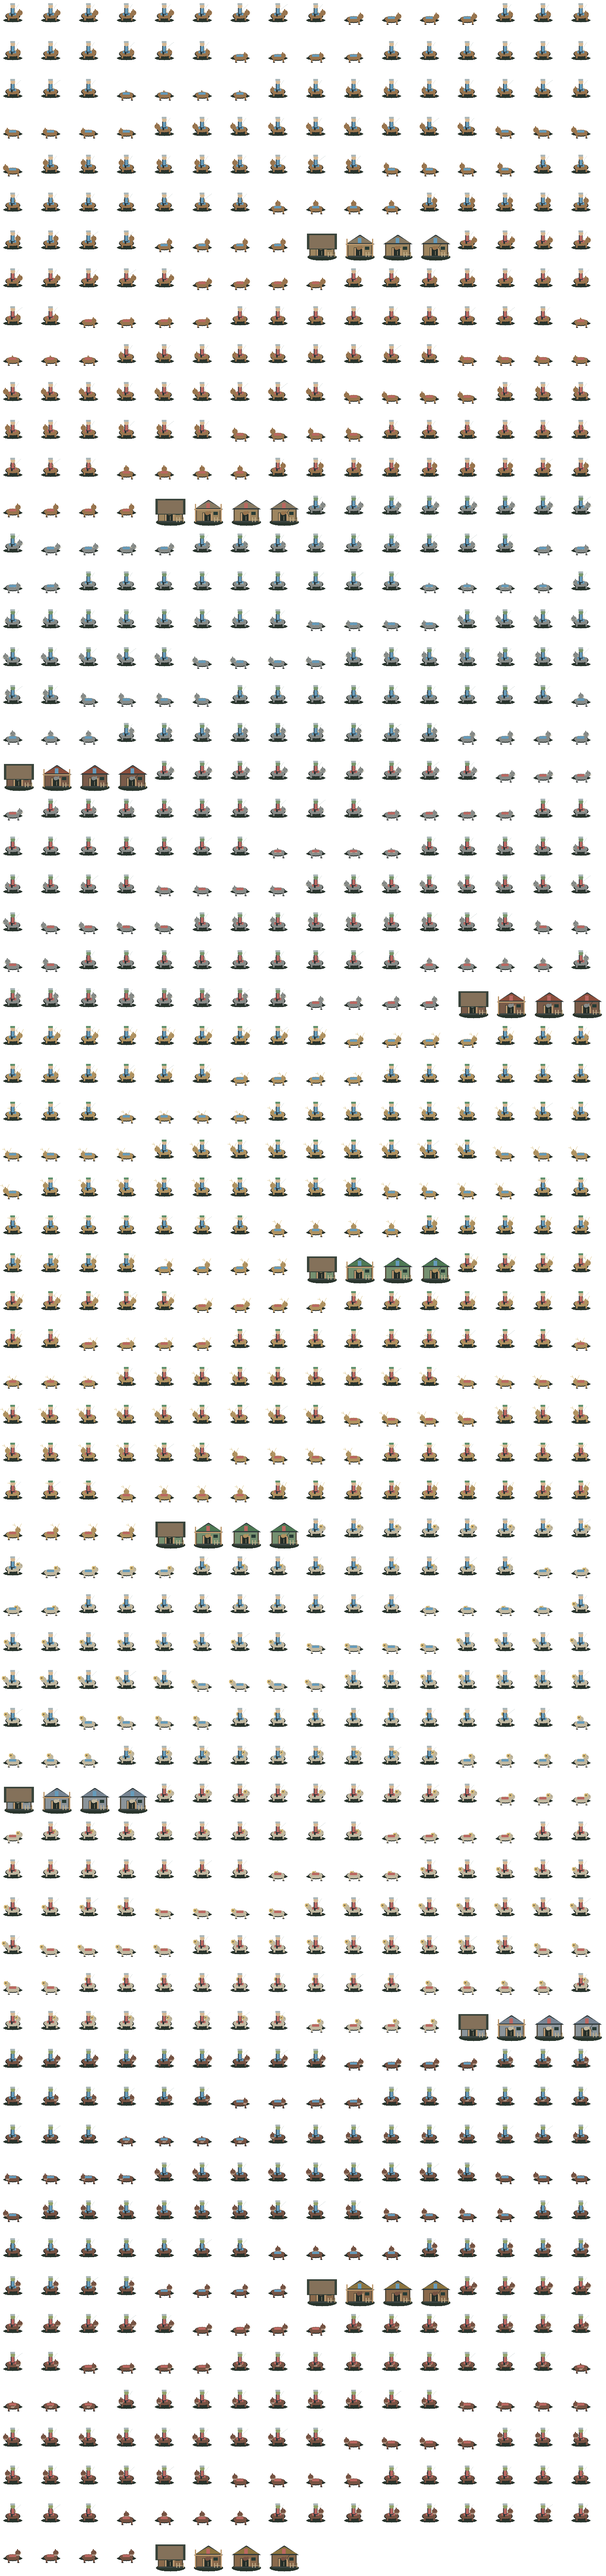
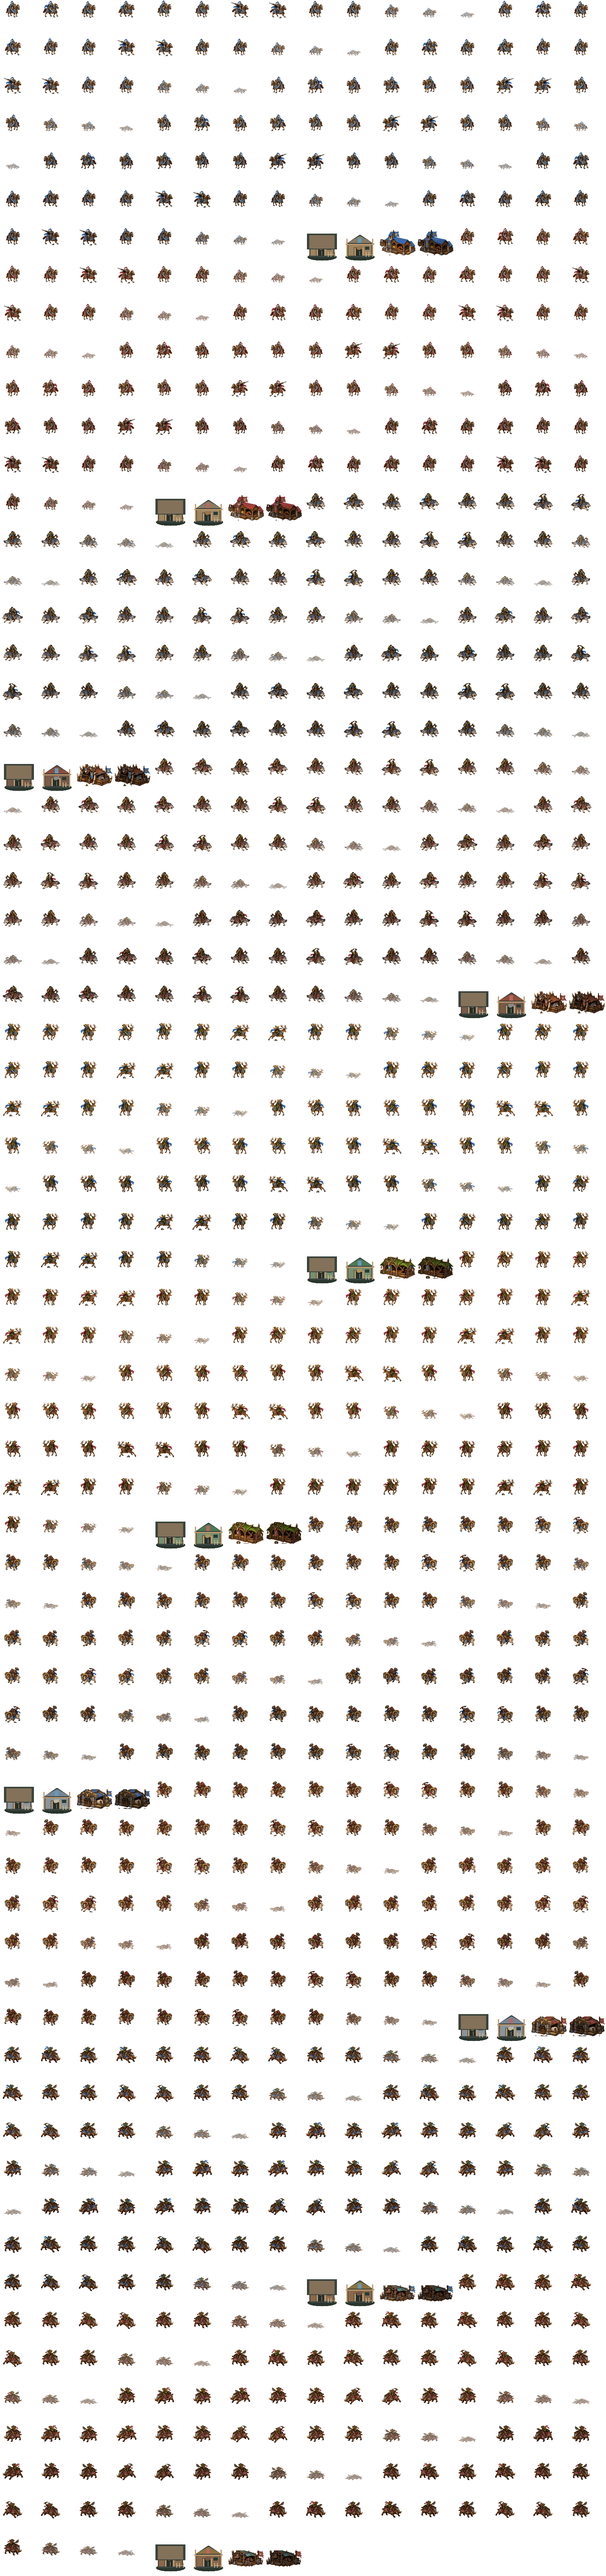
art: match mounted units and stables to painted roster

diff --git a/src/presentation/animation.ts b/src/presentation/animation.ts
@@ -24,6 +24,6 @@ export function artAtlas(type:UnitArt):'units'|'naval'|'air'|'cavalry'{return ty
 
 /** Labels sit above the detailed land silhouettes, without changing its body or origin. */
 export function unitOverlayOffsets(type:UnitArt,faction:FactionId='crown'){
- const detailed=type==='worker'||type==='soldier'||type==='archer'||type==='specialist';
+ const detailed=type==='worker'||type==='soldier'||type==='archer'||type==='specialist'||type==='cavalry';
  return {hp:type==='air'?60:detailed?48:type==='catapult'?48:29,cargo:detailed?68:48};
 }

diff --git a/assets/sources/visual-refresh/cavalry.md b/assets/sources/visual-refresh/cavalry.md
@@ -1,0 +1,34 @@
+# RTS-220 revised cavalry and Stable art
+
+Built-in imagegen, 2026-10-08, original project assets, CC0 dedication.
+Style reference: repository-owned `crown.png` (approved visual refresh).
+Masters: `cavalry.png` and `stables.png`; genuine generated alpha preserved.
+No external game sprites, paid stock, or API/CLI generation.
+
+Cavalry prompt: transparent original fantasy RTS sheet, five rows/four columns,
+elevated southeast detailed painted pixel miniatures, matching the supplied
+Human reference finish. Rows: blue/gold armored Knight on chestnut horse;
+tusked Orc axe rider on gray wolf; leaf-armored Elf sword rider on antlered
+stag; red-bearded Dwarf hammer rider on woolly curled-horn ram; goggled Goblin
+cleaver rider on bristled tusked boar. Columns idle, left-step, right-step,
+melee strike. Whole mounts, generous padding, blue team cloth, no text/grid.
+
+Stable prompt: same miniature style/camera, transparent five-row one-column
+sheet: blue-roof stone/timber horse stable; tusk/timber Wolf Den; living leaf
+Stag Sanctuary; granite/brass Ram Enclosure; patched tin/timber Boar Pen.
+Animal signs/heads, stalls, harnesses, small blue team banners; no terrain.
+
+Export uses existing connected-component cropping/alpha-area reduction and
+cloth recoloring from `frames.mjs`, explicit reviewed row boundaries, unchanged
+64px unit/96px building cells and logical bodies. Runtime atlas includes genuine
+walking/attack poses; western facing mirrors, northern facing shades. Death
+collapses/fades, not separately painted death or eight independent perspectives.
+Foundation/building stages retain original editable procedural art; completed/
+damaged Stable uses painted art plus damage cracks. Portraits/actions use the
+same atlas. `scripts/export-cavalry.mjs` rebuilds deterministically without
+exporting or modifying the user's `units.mjs`.
+
+Browser evidence: `artifacts/rts-220-art`, native800×600 for all five factions,
+paid production via resource-cheat-funded actual clicks and gameplay ticks,
+move/attack, Tech Tree, Save/Load/restart. Art inspection is distinct from tests;
+no human balance or user approval of these revised assets claimed.

diff --git a/BACKLOG.md b/BACKLOG.md
@@ -46,7 +46,7 @@ Ny lokal verifiering: riktade23/2 PASS13.56s (före ändringen23/2 PASS11.04s), 
 ## Current Focus
 
 Nytt mandat 2026-10-08: RTS-220–228 i ordning, en task åt gången.
-RTS-220 är pushad15bd869; Human-roster CI-fix verifierad lokalt1717/200. RTS-221 är nästa task. Städning, release och kartombyggnad är pausade.
+RTS-220 grafik rättad och verifierad; RTS-221–228 fortsätter i ordning utan tidigare förtida stopp. Städning, release och kartombyggnad är pausade.
 Taskvis riktade tester, native800-browser, unit/strict build/diff, docs och
 commit/push till origin/main. Full regression vid etappslut; stanna efter228.
 Befintliga style.css/units.mjs/docs/:memory:.ses bevaras. Ingen delegering.
@@ -5685,6 +5685,13 @@ SaveLoad/restart PASS; [belägg](artifacts/rts-220/browser.json). Representativa
 production/rider/TechTreebilder visuellt granskade. Egen procedural CC0-art,
 upprepad fallpose/death och delad ridergrundform dokumenterade; ingen mänsklig
 balans-/slutartclaim. Ingen ny release/fullkampanj/CI/Pages hävdas.
+
+RTS-220 grafikrättelse2026-10-08: egna målade riders/stables i befintlig
+visual-refresh-stil, genuina walking/strikeposer, samma exporter/team/anchors.
+Native800 femras actual mouse gameplay/portraits/TechTree/save/restart PASS;
+representativa Crown/Elf-bilder granskade. Riktade30/3, unit511/89 och strict
+build PASS. Begränsningar: mirrored/shaded perspectives, collapse/fade death
+samt procedural construction, inte den tidigare skissartade slutbilden.
 
 ### RTS-221 — Healer — Todo
 Support producerad i befintlig academy där möjligt. Mana/cooldown/visuell Heal,

diff --git a/DEV_LOG.md b/DEV_LOG.md
@@ -4502,3 +4502,19 @@ egen granskning av testförväntning/config och docs utan kvarstående fynd.
 CI-fix omfattar bara rosterförväntning och dokumentation; ingen browser-
 omkörning behövs. Ny GitHubkörning efter push rapporteras separat från de
 lokala resultaten. Föregående15bd869-CI är verifierat röd, inte grön.
+
+
+### 2026-10-08 — RTS-220 grafikrättelse och återupptaget220–228-mandat
+
+Användaren avvisade skissartat cavalry och bad att hela kvarvarande uppdraget
+genomförs.220-art Done omprövades före rättelse. Egna imagegen-masters med
+befintligt Human-stilunderlag, riders/stables och befintlig shared alpha/
+reduction/team-export. Ingen units.mjs/style.css/docs/memory ändrad av oss.
+Riktade30/3 PASS2.00s; unit511/89 PASS16.13s; strict build PASS919ms med
+befintlig bundlevarning. Native800 actual mouse build/train/move/attack,
+Tech Tree och SaveLoad/restart samtliga femraser PASS0pageerrors; nya belägg
+artifacts/rts-220-art, Crown/Elf rendering visuellt granskad. Procedural
+construction och mirrored/shaded facing/collapse death konkret dokumenterade.
+Ingen balansspeltest/release/fullkampanj. Egen review/diff och source alpha
+kontrollerad. Fortsätter221 efter taskpush; förtida stopp från äldre handoff
+ersätts av uttryckligt fortsatt221–228-uppdrag.

diff --git a/GAME_DESIGN.md b/GAME_DESIGN.md
@@ -1451,7 +1451,11 @@ queue cancellation, Commands and Tech Tree expose the role/dependencies.
 Save persists producer/job state and AI base development; old snapshots
 without cavalry army weights default to1. Restart clears the new states.
 
-Original native procedural pixel sprites/icons have five distinct mounts,
-ras-specific names/colors and building stages. Death frames repeat a fallen
-pose; no separately painted final death animation or human art approval is
-claimed. Source/license: [assets](assets/README.md#rts-220--cavalry-och-stable).
+Revised painted pixel sprites/icons match the existing visual-refresh roster:
+five distinct mounts and faction-specific Stable silhouettes. Original built-in
+imagegen masters use shared alpha cropping/reduction/team recoloring. Genuine
+walking/attack poses; western views mirror and northern views shade, while
+death uses collapse/fade. Construction stages remain procedural. No human
+balance or user art approval claimed. Source/license:
+[assets](assets/sources/visual-refresh/cavalry.md).
+

diff --git a/assets/README.md b/assets/README.md
@@ -223,3 +223,9 @@ idle/walk/attack/death och fyra byggstadier för fem Stable-motsvarigheter.
 Ikoner/porträtt croppar samma sprites. Detta är enkel procedural native-art;
 fyra deathframes använder samma fallna pose och riders återanvänder grundform.
 Ingen separat målad slutanimation eller mänskligt kvalitetsgodkännande hävdas.
+
+RTS-220 rättelse2026-10-08: färdiga cavalry/Stable sprites ersatta med egna
+imagegen-målade rasterkällor i befintlig visual-refresh-stil. Se
+[sources/visual-refresh/cavalry.md](sources/visual-refresh/cavalry.md) för
+prompter/källor/licens/export och faktiska begränsningar. Den äldre procedural-
+leveransen ovan beskriver förebilden och gäller endast construction stages.
